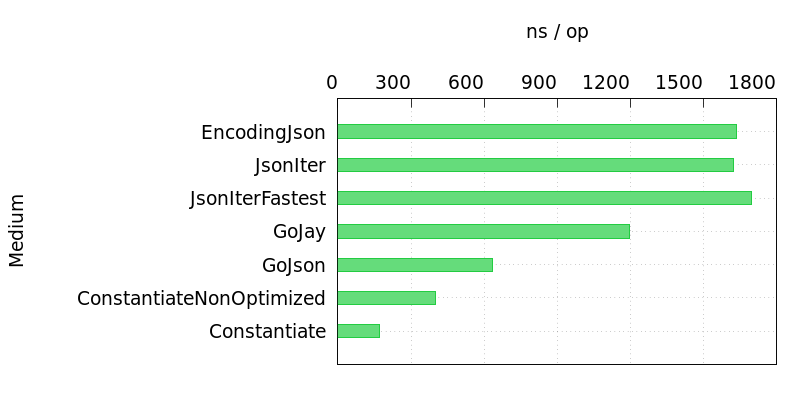
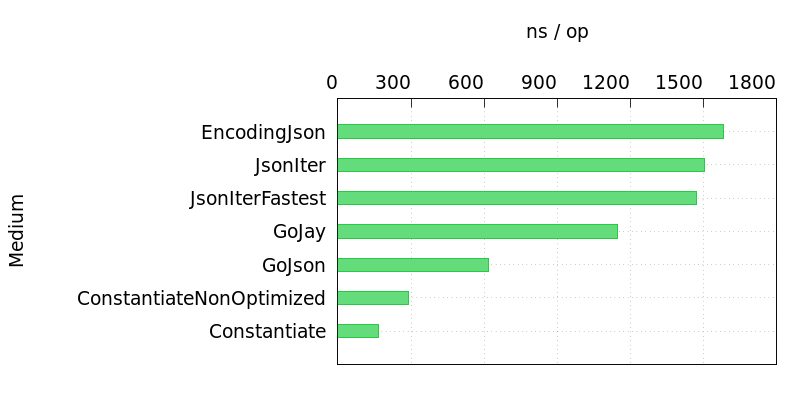
Clean: update benchmark results

diff --git a/README.md b/README.md
@@ -79,10 +79,10 @@ type M map[string]string
 |Constantiate|This one. Using Extended options.|
 
 ### SmallStruct
-![Small](https://user-images.githubusercontent.com/49056869/92576330-6168ee80-f2c4-11ea-8636-40af0be47b59.png)
+![Small](https://user-images.githubusercontent.com/49056869/92892761-049c3e00-f454-11ea-9cc6-bab5eccc713e.png)
 
 ### MediumStruct
-![Medium](https://user-images.githubusercontent.com/49056869/92576336-629a1b80-f2c4-11ea-978c-380cda97e407.png)
+![Medium](https://user-images.githubusercontent.com/49056869/92892769-05cd6b00-f454-11ea-9402-f07dc1cbbdca.png)
 
 ### LargeStruct
-![Large](https://user-images.githubusercontent.com/49056869/92576335-62018500-f2c4-11ea-95aa-18c881ca669e.png)
+![Large](https://user-images.githubusercontent.com/49056869/92892776-06fe9800-f454-11ea-86be-878693039a1b.png)
